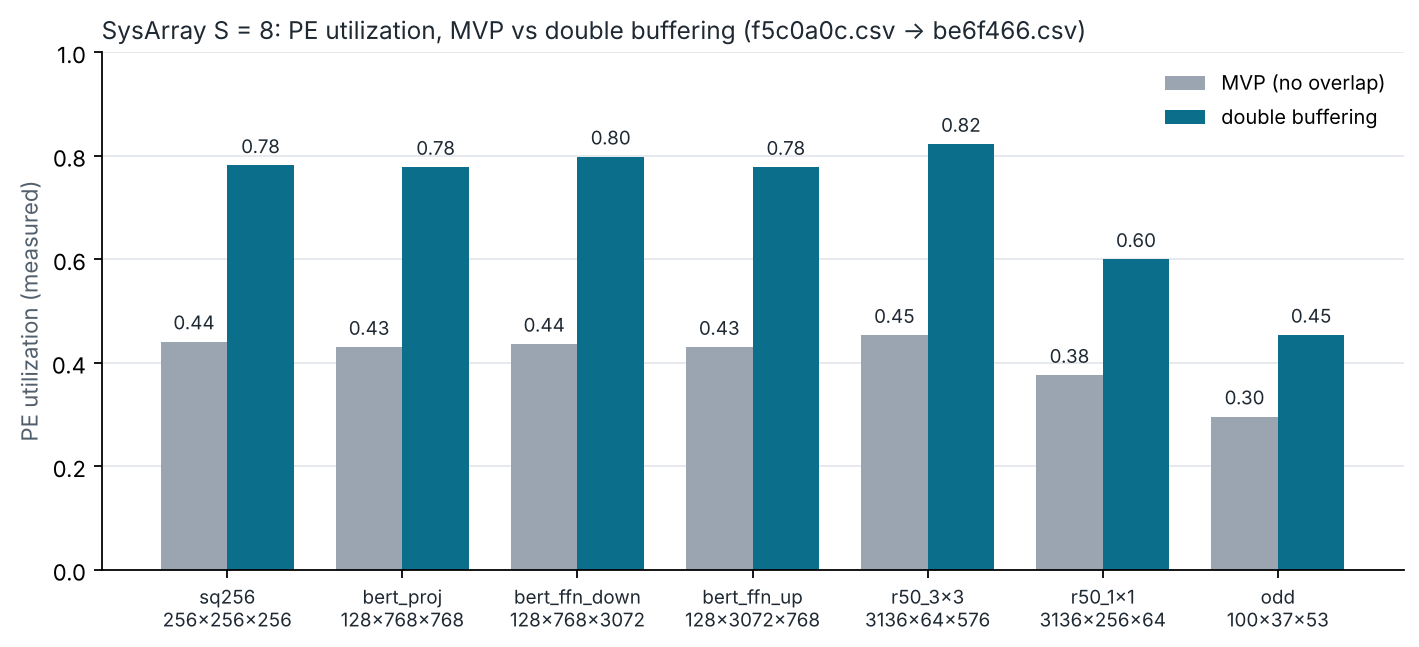
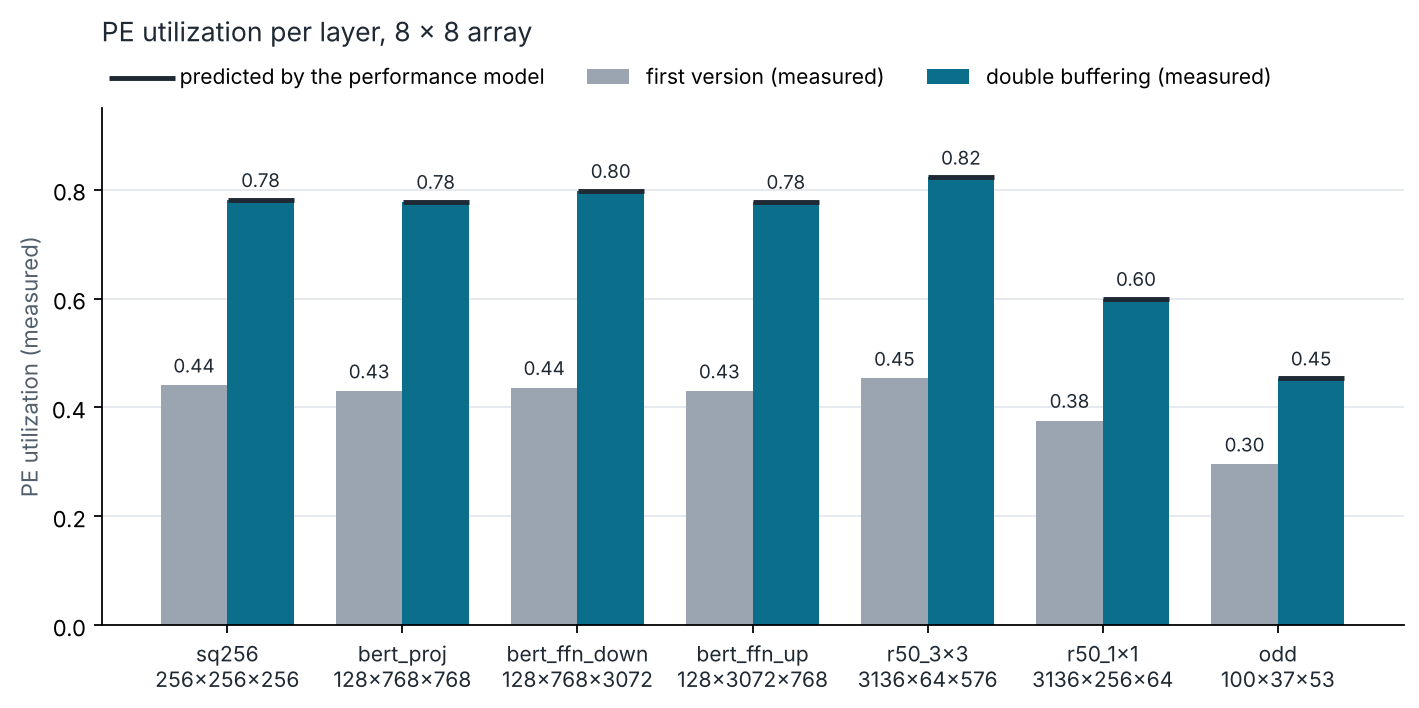
docs: README order, industry overview, readable performance chart

diff --git a/scripts/report/readme_figures.py b/scripts/report/readme_figures.py
@@ -202,22 +202,25 @@ def before_after(out: Path, mvp_csv: Path, final_csv: Path) -> Path:
     fig, ax = plt.subplots(figsize=(10.5, 4.2))
     x = range(len(shapes))
     bw = 0.38
-    b0 = ax.bar([i - bw / 2 for i in x], u0, bw, color=MVP_C, label="MVP (no overlap)")
-    b1 = ax.bar([i + bw / 2 for i in x], u1, bw, color=FINAL_C, label="double buffering")
+    b0 = ax.bar([i - bw / 2 for i in x], u0, bw, color=MVP_C, label="first version (measured)")
+    b1 = ax.bar([i + bw / 2 for i in x], u1, bw, color=FINAL_C, label="double buffering (measured)")
+    pred = [float(final[s]["predicted_utilization"]) for s in shapes]
+    ax.scatter([i + bw / 2 for i in x], pred, marker="_", s=900, color=INK, linewidths=2.2,
+               zorder=3, label="predicted by the performance model")  # fmt: skip
     for bars, vals in ((b0, u0), (b1, u1)):
         for b, v in zip(bars, vals):
             ax.text(b.get_x() + b.get_width() / 2, v + 0.015, f"{v:.2f}", ha="center",
                     va="bottom", fontsize=8.5, color=INK)  # fmt: skip
     labels = [f"{s}\n{final[s]['M']}×{final[s]['N']}×{final[s]['K']}" for s in shapes]
-    ax.set_xticks(list(x), labels, fontsize=8.5, color=INK)
-    ax.set_ylim(0, 1.0)
+    ax.set_xticks(list(x), labels, fontsize=9.5, color=INK)
+    ax.set_ylim(0, 0.95)
     ax.set_ylabel("PE utilization (measured)", color=MUTED)
-    ax.set_title(f"SysArray S = {final[shapes[0]]['S']}: PE utilization, MVP vs double buffering"
-                 f" ({mvp_csv.name} → {final_csv.name})", color=INK, fontsize=11, loc="left")  # fmt: skip
+    ax.set_title(f"PE utilization per layer, {final[shapes[0]]['S']} × {final[shapes[0]]['S']} array",
+                 color=INK, fontsize=12, loc="left", pad=30)  # fmt: skip
     ax.spines[["top", "right"]].set_visible(False)
     ax.grid(axis="y", color="#e4e7eb")
     ax.set_axisbelow(True)
-    ax.legend(frameon=False, loc="upper right", fontsize=9)
+    ax.legend(frameon=False, loc="lower left", bbox_to_anchor=(0, 1.0), fontsize=9.5, ncol=3)
     path = out / "utilization_before_after.png"
     fig.savefig(path, dpi=160, bbox_inches="tight", facecolor="white")
     plt.close(fig)

diff --git a/README.md b/README.md
@@ -24,18 +24,34 @@ results leave at the bottom.</sub></p>
 
 ## Highlights
 
-| | |
+| Result | What it means |
 | --- | --- |
-| ⚡ **0.78 – 0.82 utilization** | of the 64 multiply-add units on real BERT and ResNet-50 3×3 layers, up from 0.43–0.45 in the first version |
-| 🚀 **up to 1.8× faster** | than the first version on the same layers, by overlapping data movement with compute |
-| 🎯 **16 / 16 exact predictions** | a performance model predicts the cycle count before the hardware runs, and matched every measurement |
-| 🧠 **Own compiler** | tiles any matrix size into hardware commands; picks the loop order with 4× less weight traffic |
-| ✅ **1,000 / 1,000 tests pass** | random matrix multiplies, bit-exact against NumPy |
-| 🔧 **92.89 MHz on FPGA** | full accelerator on a Lattice ECP5, one DSP block per multiply-add unit |
-| 🏭 **1.053 mm² on silicon** | placed and routed on the open SkyWater SKY130 process |
+| **0.78 – 0.82 utilization** | of the 64 multiply-add units on BERT and ResNet-50 3×3 layers, up from 0.43–0.45 in the first version |
+| **Up to 1.8× faster** | than the first version on the same layers, by overlapping data movement with compute |
+| **16 / 16 exact predictions** | the performance model predicts the cycle count before the hardware runs, and matched every measurement |
+| **Own compiler** | tiles any matrix size into hardware commands; its loop order moves up to 4× less weight data |
+| **1,000 / 1,000 tests pass** | random matrix multiplies, bit-exact against NumPy |
+| **92.89 MHz on FPGA** | full accelerator on a Lattice ECP5, one DSP block per multiply-add unit |
+| **1.053 mm² on silicon** | placed and routed on the open SkyWater SKY130 process |
 
 **Built with:** SystemVerilog · cocotb · Verilator · Python · NumPy ·
 Yosys · nextpnr · LibreLane / OpenROAD · GitHub Actions
+
+## What this project covers
+
+The problem SysArray solves is the one at the heart of TPU matrix units and
+GPU Tensor Cores: keep a large grid of multiply-add units fed with data so
+none of them sits idle. The project goes through the full path an
+accelerator team works on, end to end:
+
+| Area | In this project |
+| --- | --- |
+| **Accelerator architecture** | weight-stationary systolic array, on-chip buffers, DMA, double buffering, roofline analysis |
+| **Performance engineering** | found the bottleneck from measurements, removed it (0.44 → 0.78 utilization), and predicted every cycle count with an analytical model |
+| **Compiler and hardware–software co-design** | a tiling compiler that targets this hardware: tile sizes, loop order, scheduling commands so loads overlap compute |
+| **RTL design** | synthesizable SystemVerilog, pipelined processing elements, a controller that runs two units in parallel, lint clean |
+| **Design verification** | cocotb testbenches against a NumPy golden model, constrained-random campaigns, corner cases, replayable seeds, CI |
+| **Implementation (PPA)** | FPGA synthesis and timing on Lattice ECP5; ASIC place-and-route on SkyWater SKY130 |
 
 ---
 
@@ -52,6 +68,35 @@ Yosys · nextpnr · LibreLane / OpenROAD · GitHub Actions
   **accumulator**.
 - The **input buffer has two halves** (ping-pong): the next block of data
   loads while the current one is being computed.
+
+## Performance
+
+![Utilization, first version vs double buffering](docs/img/utilization_before_after.png)
+
+The first version did one thing at a time: load, compute, store. Overlapping
+the next load with the current compute (double buffering) almost doubled the
+useful work per cycle. The black marks are the performance model's
+predictions, made before each run.
+
+| Layer | Size (M × N × K) | Cycles | Utilization |
+| --- | --- | --- | --- |
+| 256³ square | 256 × 256 × 256 | 335,463 | 0.781 |
+| BERT projection | 128 × 768 × 768 | 1,516,071 | 0.778 |
+| BERT FFN down | 128 × 768 × 3072 | 5,912,103 | 0.798 |
+| BERT FFN up | 128 × 3072 × 768 | 6,063,879 | 0.778 |
+| ResNet-50 3×3 | 3136 × 64 × 576 | 2,195,807 | 0.823 |
+| ResNet-50 1×1 | 3136 × 256 × 64 | 1,338,343 | 0.600 |
+
+Measured on the RTL; the performance model predicted every one of these cycle
+counts exactly.
+
+<p align="center">
+  <img src="results/perf/be6f466_roofline.png" width="78%" alt="Roofline">
+</p>
+<p align="center"><sub>Roofline: the array peaks at 64 multiply-adds per cycle and the DMA moves 8 bytes per cycle.
+The BERT layers sit close to the corner, where compute and memory bandwidth are both near their limit.</sub></p>
+
+More detail: [Performance deep dive](docs/PERFORMANCE.md)
 
 ## How data moves through the array
 
@@ -81,35 +126,6 @@ every block of inputs (order B):
 | 256 × 256 × 256 | **0.745** | 0.618 | 4.0× of A |
 | BERT projection | **0.742** | 0.654 | 2.0× of A |
 | ResNet-50 1×1 | **0.579** | 0.497 | 3.8× of A |
-
-## Performance
-
-![Utilization, first version vs double buffering](docs/img/utilization_before_after.png)
-
-The first version did one thing at a time: load, compute, store. Overlapping
-the next load with the current compute (double buffering) almost doubled the
-useful work per cycle.
-
-| Layer | Size (M × N × K) | Cycles | Utilization |
-| --- | --- | --- | --- |
-| 256³ square | 256 × 256 × 256 | 335,463 | 0.781 |
-| BERT projection | 128 × 768 × 768 | 1,516,071 | 0.778 |
-| BERT FFN down | 128 × 768 × 3072 | 5,912,103 | 0.798 |
-| BERT FFN up | 128 × 3072 × 768 | 6,063,879 | 0.778 |
-| ResNet-50 3×3 | 3136 × 64 × 576 | 2,195,807 | 0.823 |
-| ResNet-50 1×1 | 3136 × 256 × 64 | 1,338,343 | 0.600 |
-
-Measured on the RTL; the performance model predicted every one of these cycle
-counts exactly.
-
-<p align="center">
-  <img src="results/perf/be6f466_utilization.png" width="49%" alt="Utilization per shape, measured vs predicted">
-  <img src="results/perf/be6f466_roofline.png" width="49%" alt="Roofline">
-</p>
-<p align="center"><sub>Left: measured utilization per shape (bars) vs prediction (black lines), and the two
-loop orders. Right: roofline, peak 64 multiply-adds per cycle against 8 bytes per cycle of memory bandwidth.</sub></p>
-
-More detail: [Performance deep dive](docs/PERFORMANCE.md)
 
 ## Verification
 
